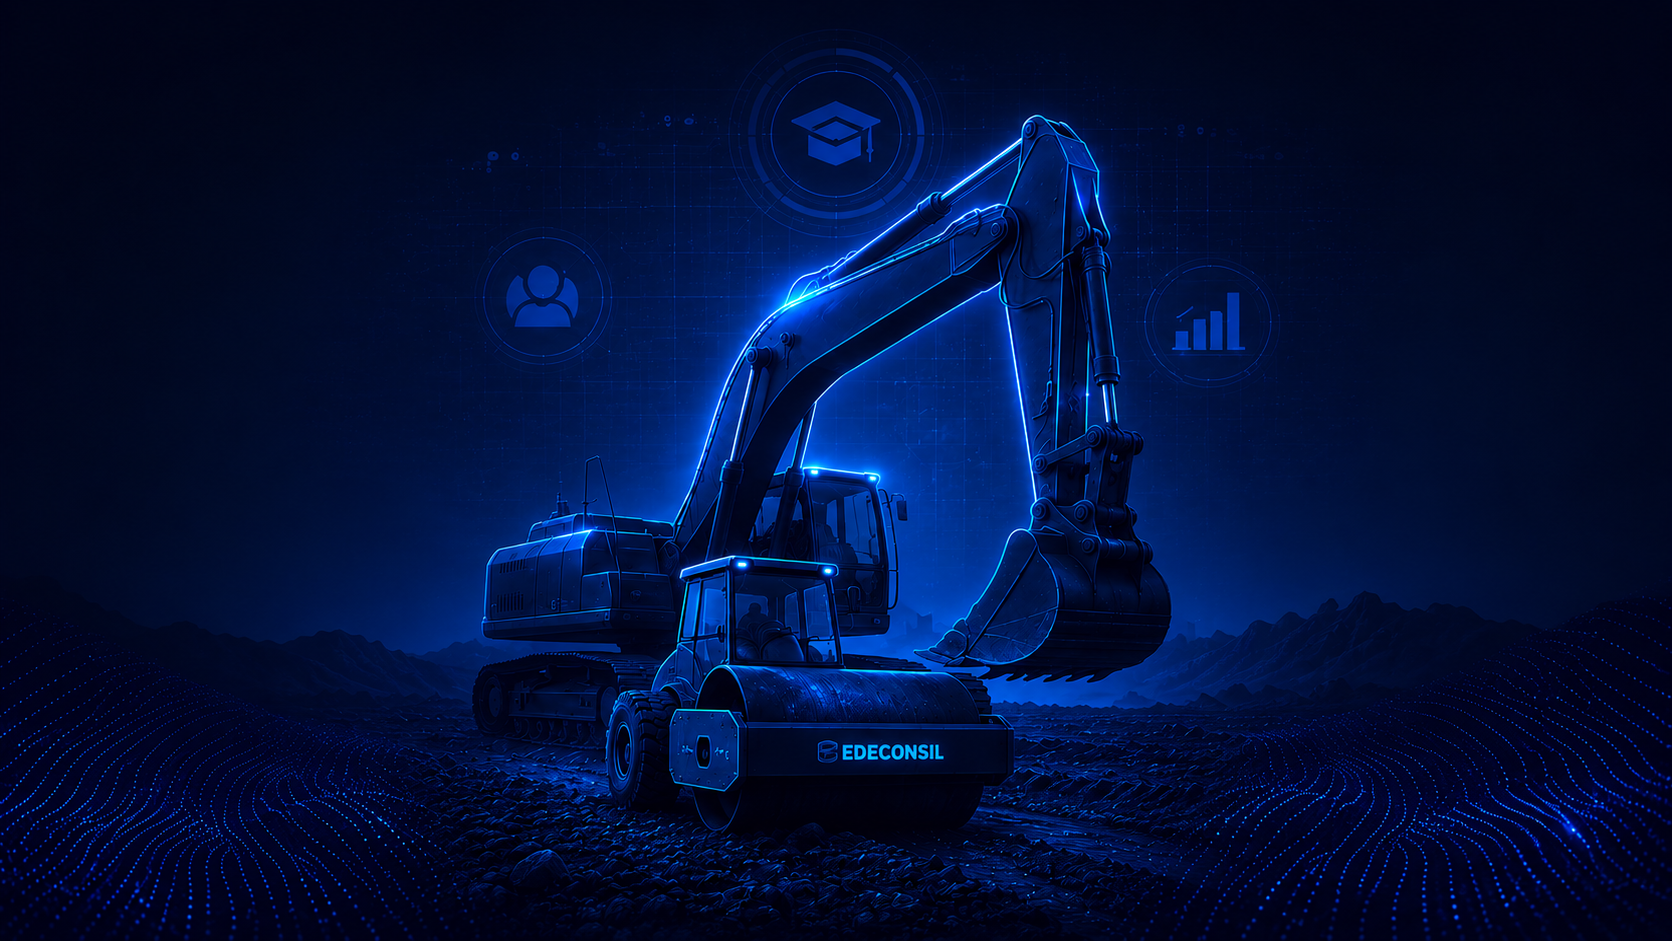
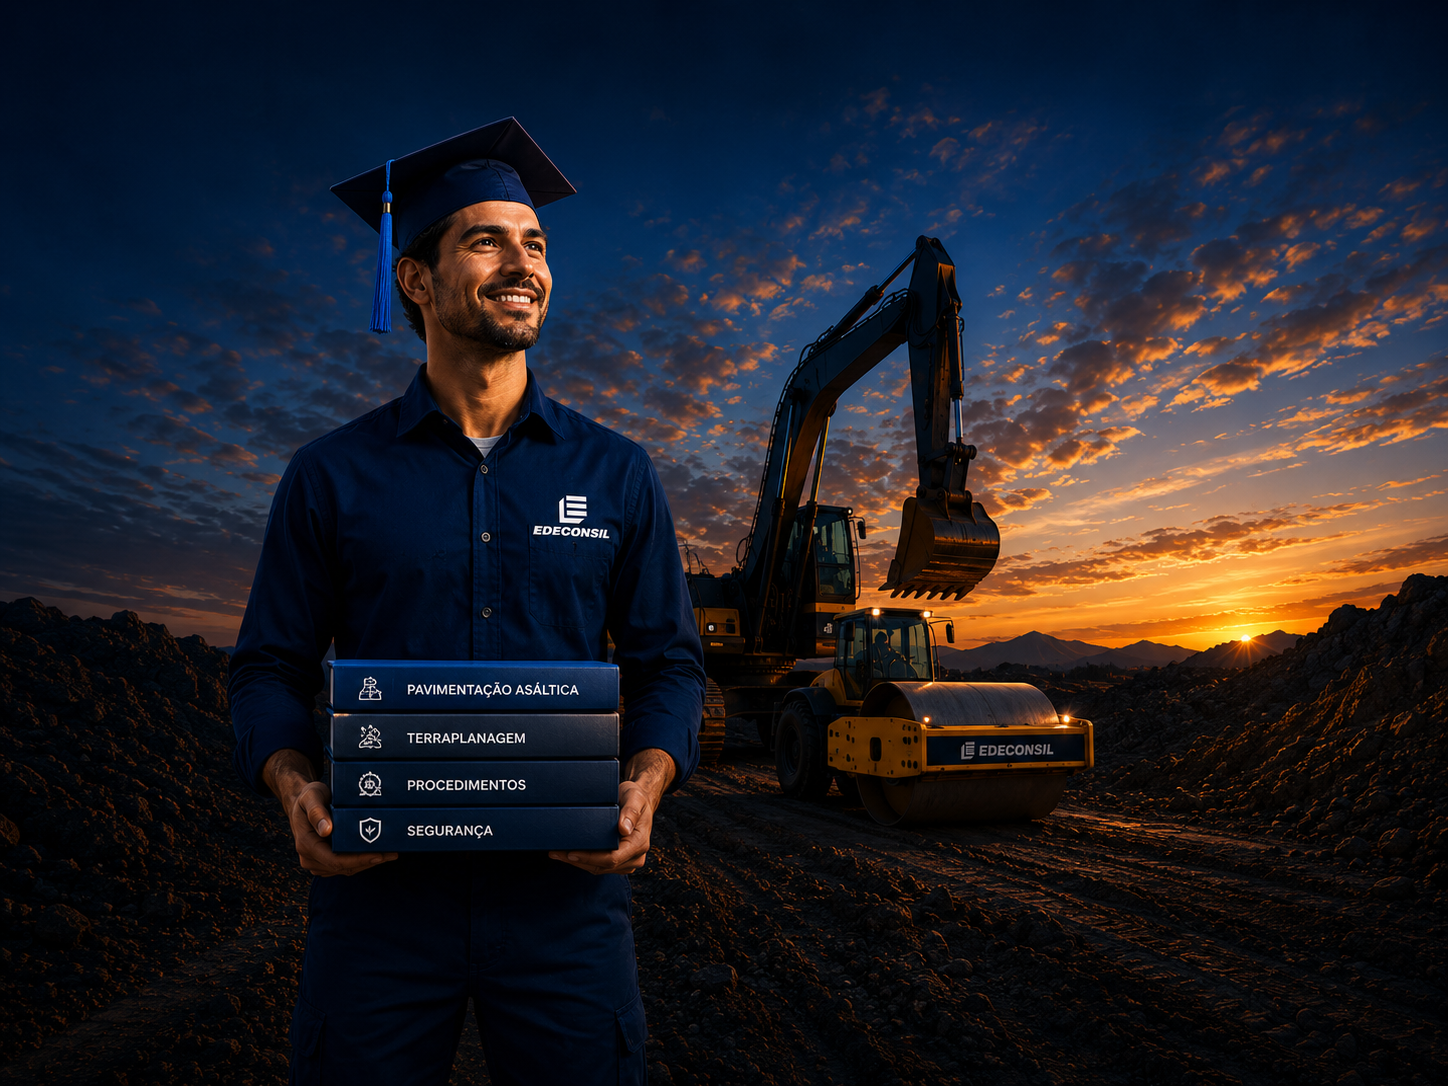
fix: título do player sempre branco independente do tema, cache Vite limpo

diff --git a/src/pages/MeusCursos.tsx b/src/pages/MeusCursos.tsx
@@ -194,11 +194,11 @@ export function MeusCursos({ onNavigate }: { onNavigate: (page: string) => void 
                 <div style={{ display: 'flex', alignItems: 'center', gap: '8px', marginBottom: '16px' }}>
                   <Logo height={28} />
                 </div>
-                <h2 style={{ fontSize: '22px', fontWeight: 700, color: C.text, margin: '0 0 4px', maxWidth: '340px', lineHeight: 1.3 }}>
+                <h2 style={{ fontSize: '22px', fontWeight: 700, color: '#ffffff', margin: '0 0 4px', maxWidth: '340px', lineHeight: 1.3 }}>
                   Leitura e Interpretação de Projetos de{' '}
                   <span style={{ color: C.blue }}>Terraplanagem</span>
                 </h2>
-                <p style={{ fontSize: '13px', color: C.muted2, margin: '8px 0 0', maxWidth: '300px' }}>
+                <p style={{ fontSize: '13px', color: 'rgba(255,255,255,0.65)', margin: '8px 0 0', maxWidth: '300px' }}>
                   Entenda plantas, cortes, perfis e volumes com eficiência.
                 </p>
               </div>